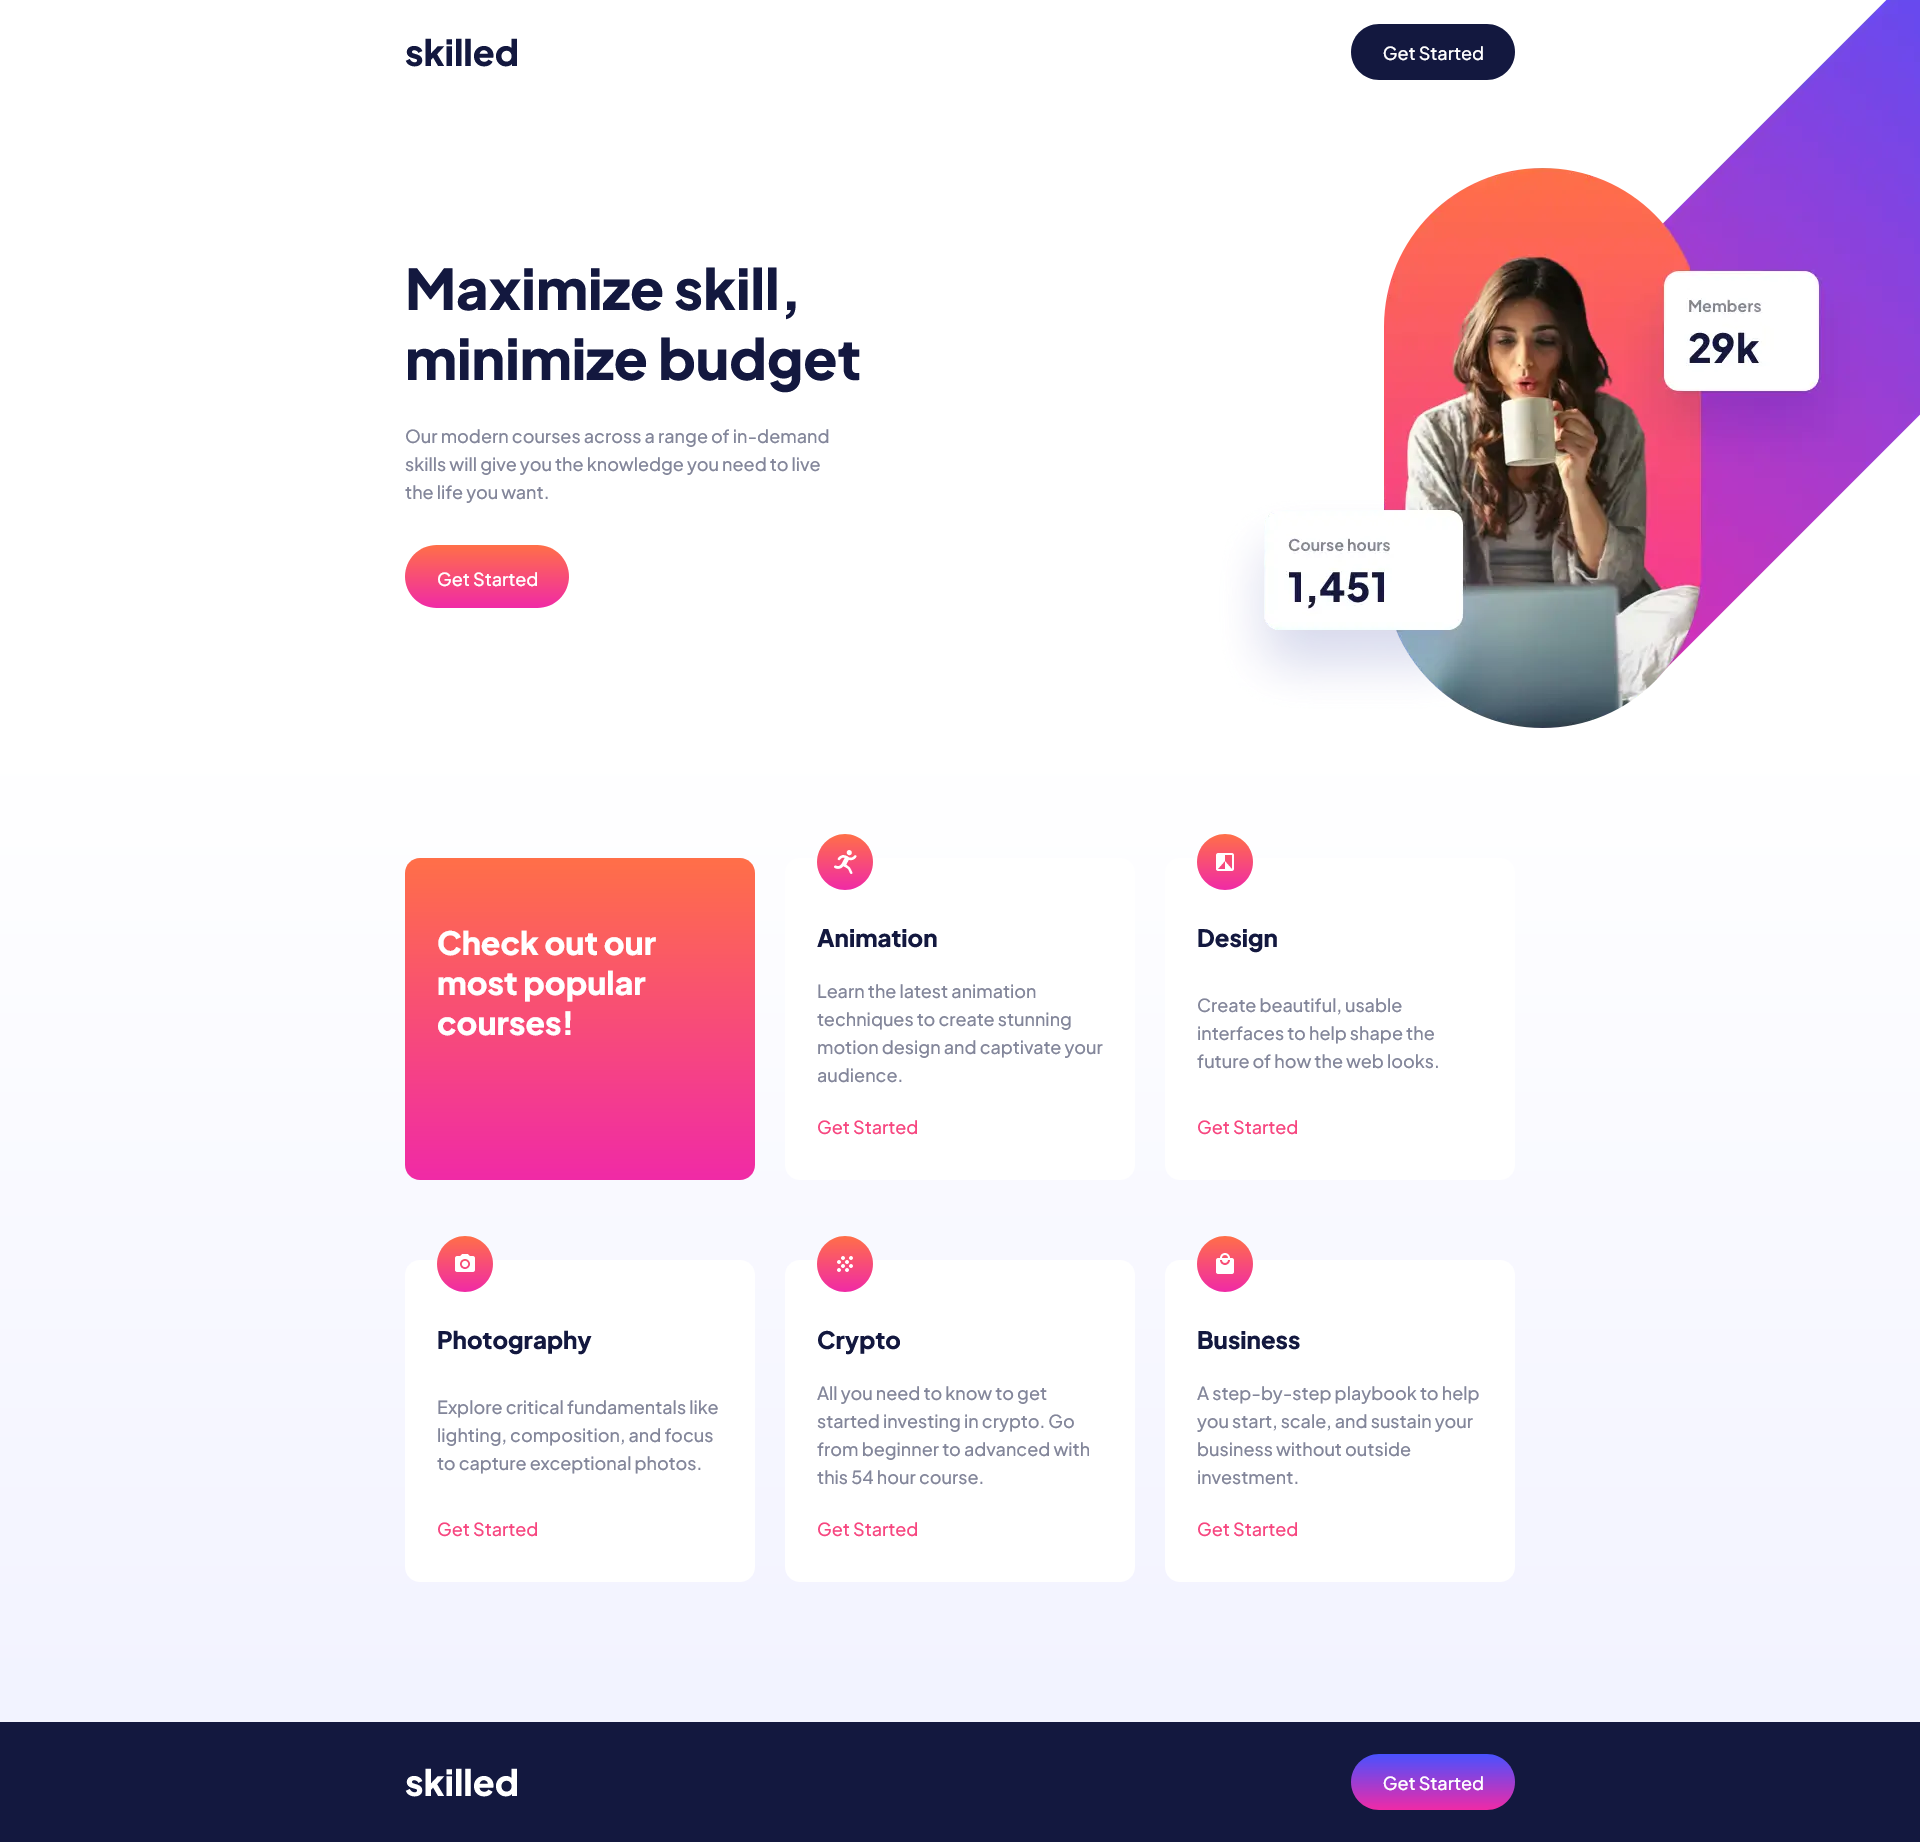
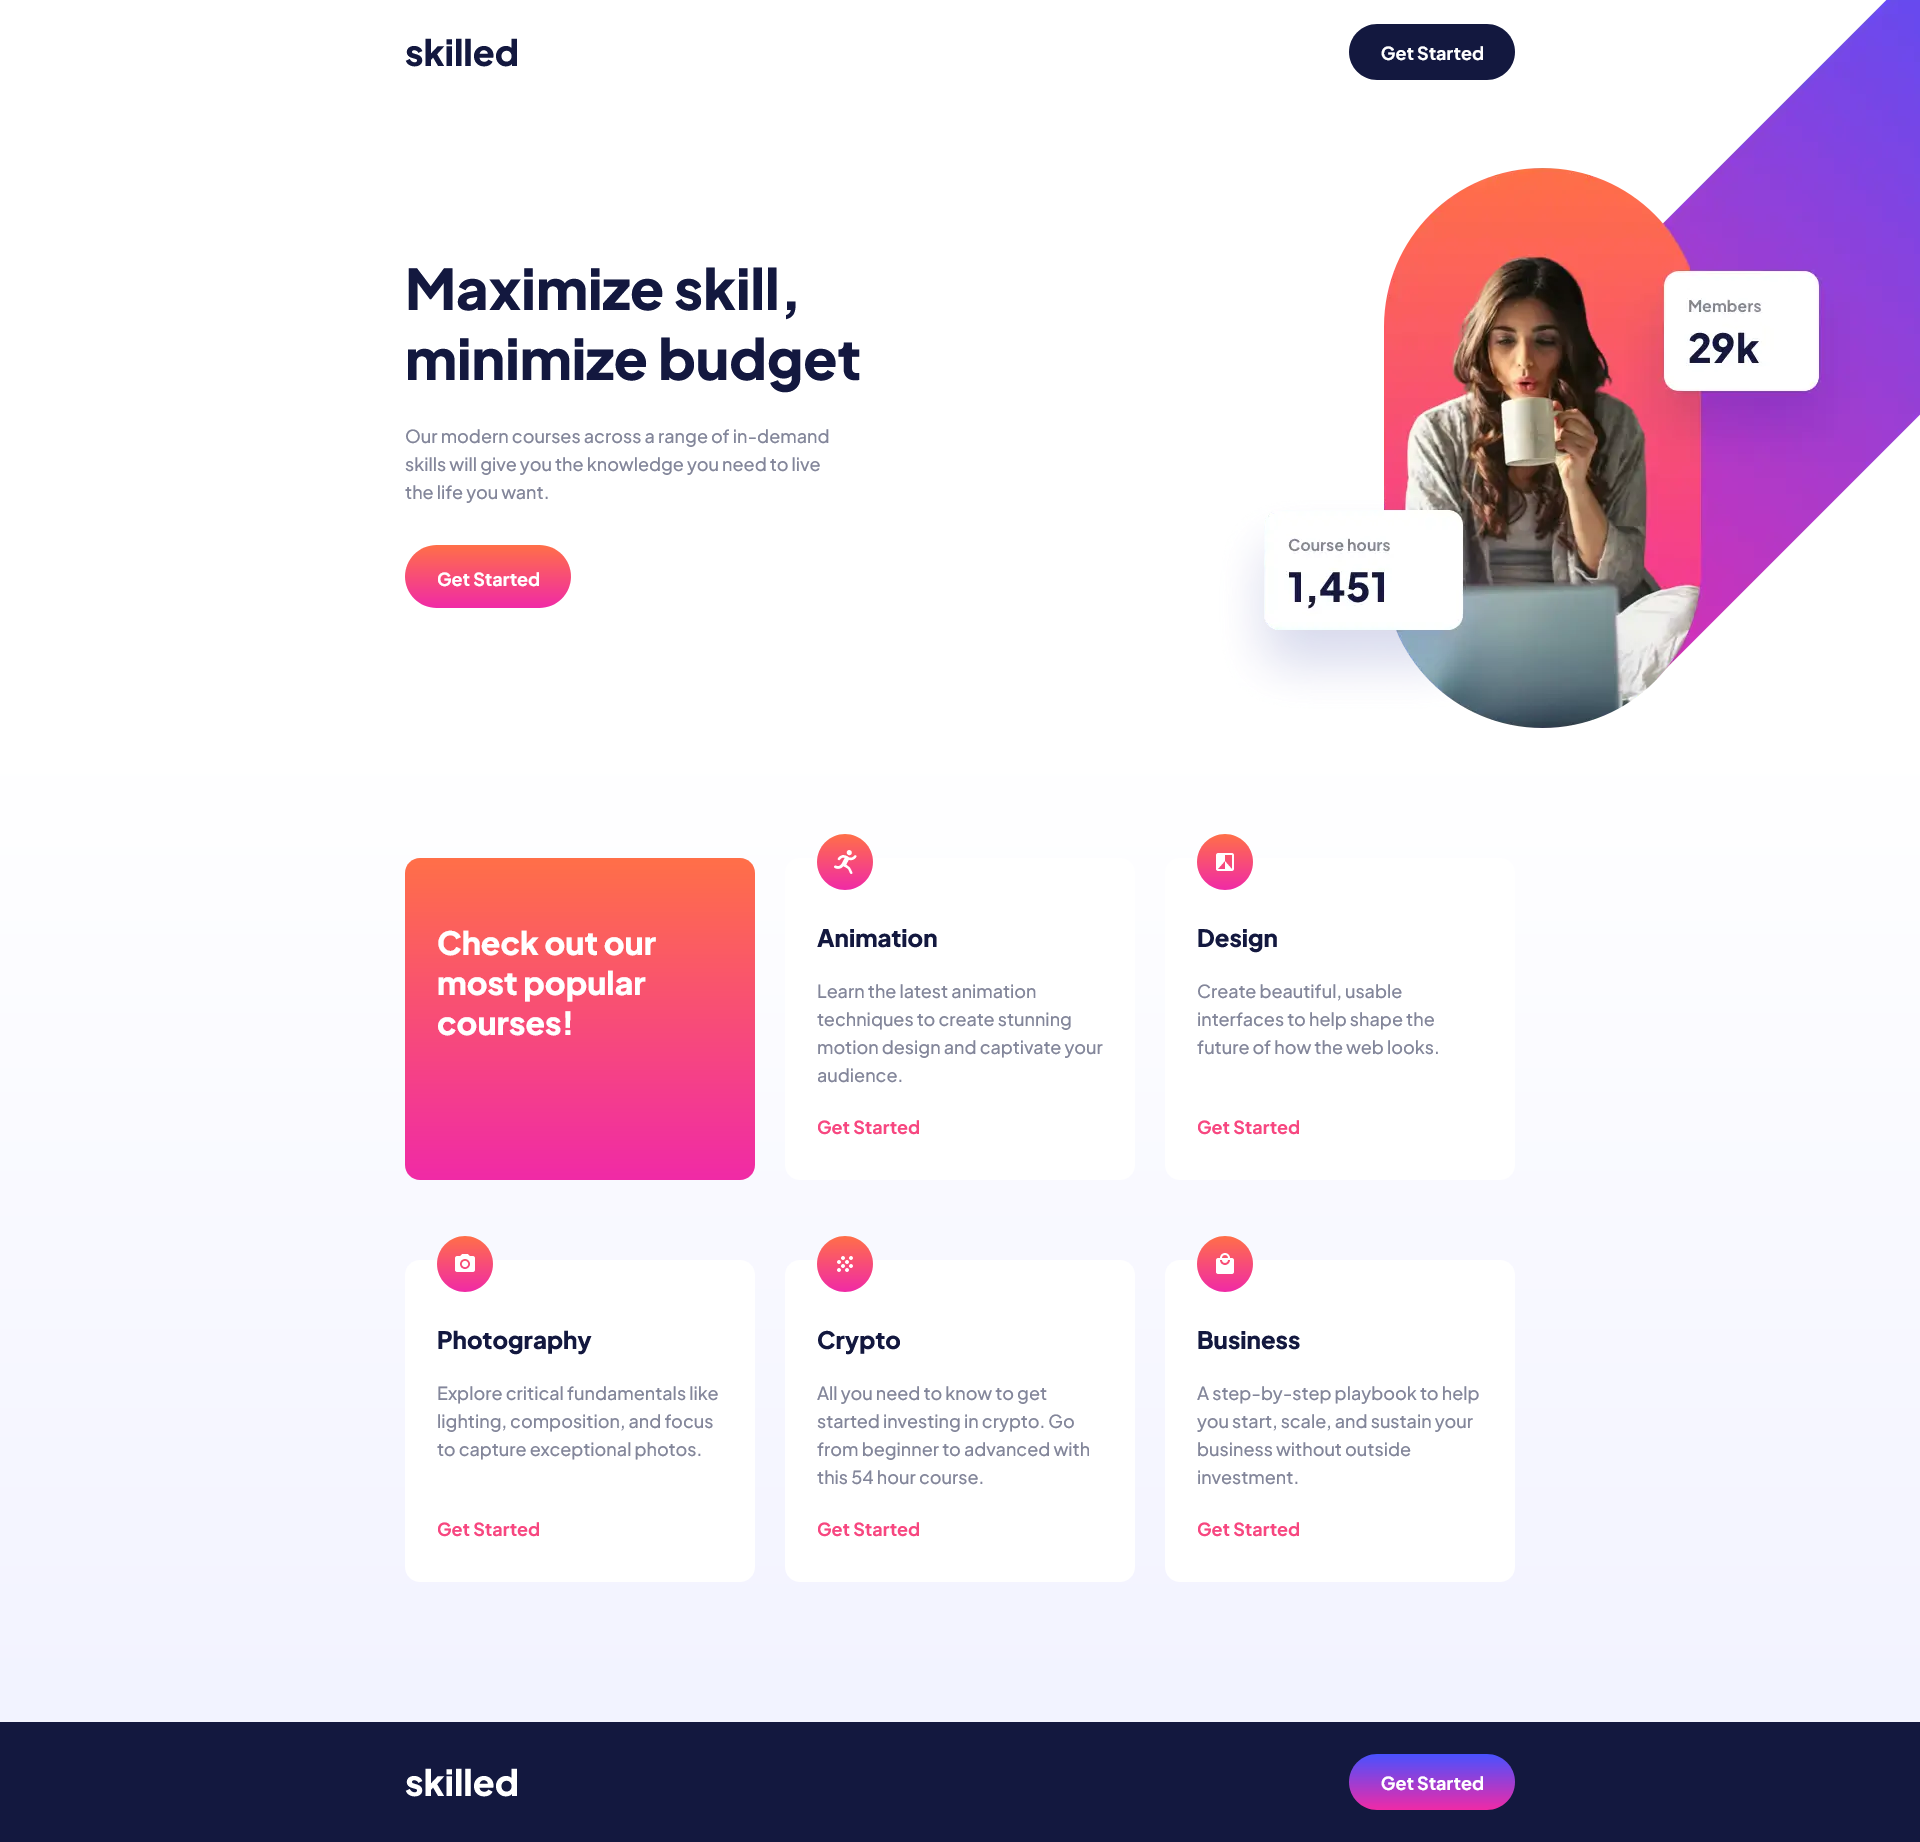
last modification

diff --git a/css/style.css b/css/style.css
@@ -78,6 +78,7 @@ h3 {
   border-radius: 50px;
   background-color: #13183F;
   color: #FFFFFF;
+  font-weight: 700;
 }
 @media screen and (max-width: 1279.9px) {
   .CTA {
@@ -310,15 +311,25 @@ body {
     padding: 56px 21px 32px 32px;
   }
 }
+.services-feature h3 {
+  margin-bottom: 24px;
+}
+@media screen and (max-width: 1279.9px) {
+  .services-feature h3 {
+    margin-bottom: 16px;
+  }
+}
 .services-feature div {
   height: 100%;
   display: flex;
   flex-direction: column;
-  justify-content: space-between;
 }
 .services-feature a {
   color: #F74780;
   text-decoration: none;
+  justify-self: flex-end;
+  margin-top: auto;
+  font-weight: 700;
 }
 .services-feature a:hover {
   opacity: 0.7;

diff --git a/scss/main.scss b/scss/main.scss
@@ -123,16 +123,26 @@ body {
             padding: 56px 21px 32px 32px;
         }
 
+        h3 {
+            margin-bottom: 24px;
+
+            @media screen and (max-width: 1279.9px) {
+                margin-bottom: 16px;
+            }
+        }
+
         div {
             height: 100%; 
             display: flex;
             flex-direction: column;
-            justify-content: space-between;
         }
 
         a {
             color: $emphasize;
             text-decoration: none;
+            justify-self: flex-end;
+            margin-top: auto;
+            font-weight: 700;
         }
 
         a:hover {

diff --git a/scss/componants/_button.scss b/scss/componants/_button.scss
@@ -3,6 +3,7 @@
     border-radius: 50px;
     background-color: $bg-primary;
     color: $white;
+    font-weight: 700;
     
     @media screen and (max-width: 1279.90px) {
         padding: 9px 24px 11px;
